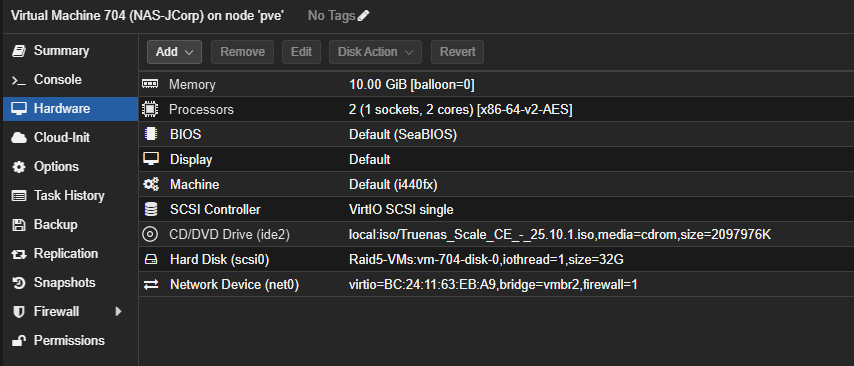
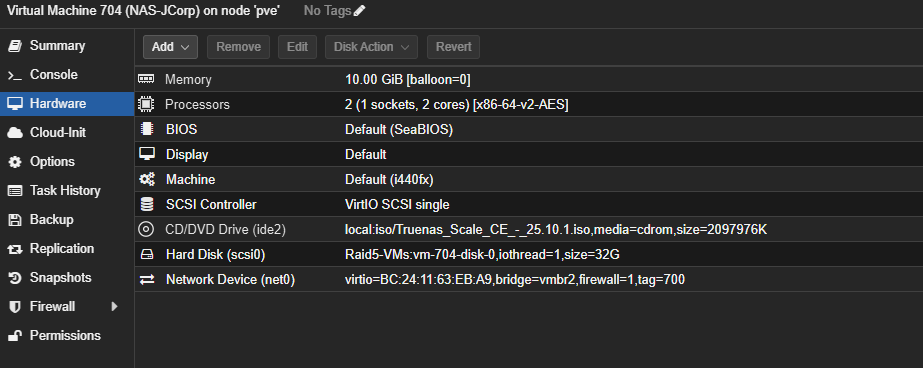
Actualiser la capture TrueNAS et confirmer le VLAN 700

diff --git a/Infrastructure/TrueNAS/TrueNAS.md b/Infrastructure/TrueNAS/TrueNAS.md
@@ -6,7 +6,7 @@ Je mets en place un serveur TrueNAS pour le stockage et les partages de mon infr
 
 J'ai créé la VM **704**, nommée **`NAS-JCorp`**, sur le nœud Proxmox **`pve`**. L'ISO montée est celle de **TrueNAS Community Edition 25.10.1**.
 
-![Configuration matérielle initiale de la VM TrueNAS 704 dans Proxmox](images/truenas-vm704-materiel.png)
+![Configuration matérielle de la VM TrueNAS 704 avec le VLAN 700](images/truenas-vm704-materiel.png)
 
 | Élément | Configuration visible |
 | --- | --- |
@@ -18,10 +18,10 @@ J'ai créé la VM **704**, nommée **`NAS-JCorp`**, sur le nœud Proxmox **`pve`
 | Contrôleur SCSI | VirtIO SCSI single |
 | Disque système | 32 Gio, `scsi0`, stockage `Raid5-VMs`, IO thread activé |
 | ISO | TrueNAS CE 25.10.1 sur le stockage `local` |
-| Carte réseau | VirtIO, `net0`, pont `vmbr2` |
+| Carte réseau | VirtIO, `net0`, pont `vmbr2`, tag VLAN `700` |
 | Pare-feu Proxmox sur la carte | Activé |
 
-La capture présente uniquement le disque système de 32 Gio. Les deux disques de données de 64 Gio seront ajoutés séparément pour préparer le pool de stockage. Aucun tag VLAN n'apparaît encore dans la ligne de la carte réseau : je dois renseigner **700** pour placer le NAS dans le même réseau que les autres VM JCorp.
+La capture présente uniquement le disque système de 32 Gio. Les deux disques de données de 64 Gio seront ajoutés séparément pour préparer le pool de stockage. J'ai configuré le tag VLAN **700** sur la carte réseau afin de placer le NAS dans le même réseau que les autres VM JCorp.
 
 ## 2. Démarrer sur l'ISO
 

diff --git a/Infrastructure/Architecture-du-reseau.md b/Infrastructure/Architecture-du-reseau.md
@@ -18,7 +18,7 @@ Dans le [scénario RedOne](https://docs.google.com/document/d/13dC98HuGbrRNXuTOo
 | Poste Windows 11 | VM 701, `User1-JCorp-Windows`, en cours d'installation |
 | Poste Debian | VM 702, `User2-JCorp-Debian`, Debian installé, pont `vmbr2` et VLAN 700 |
 | Second contrôleur de domaine | VM 703, `DC2-JCorp`, en cours d'installation |
-| NAS TrueNAS | VM 704, `NAS-JCorp`, TrueNAS CE 25.10.1 en cours d'installation |
+| NAS TrueNAS | VM 704, `NAS-JCorp`, TrueNAS CE 25.10.1 en cours d'installation, pont `vmbr2` et VLAN 700 |
 | DHCP | Rôle installé sur `JCORP-DC01`, pool `10.2.101.11` à `10.2.101.150` |
 | Passerelle du premier serveur | `10.2.101.1` |
 
